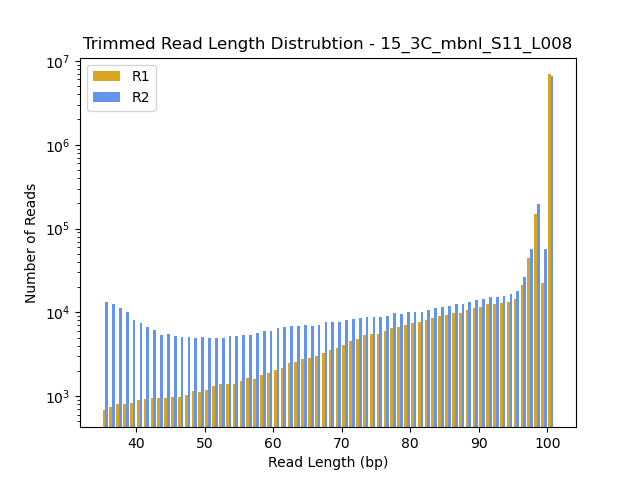
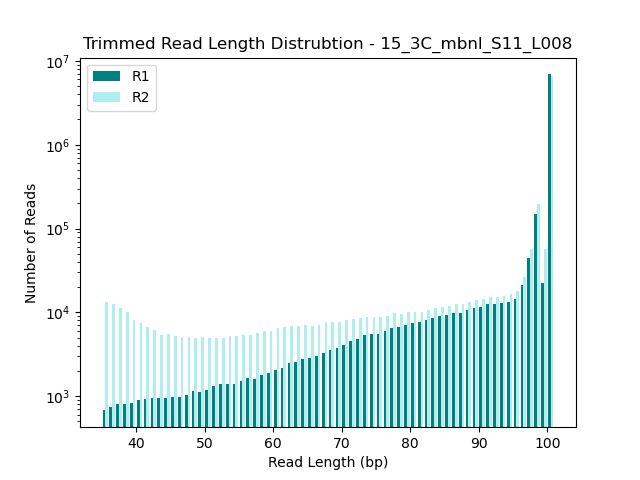
updated plots

Changed region(s): [[0.1562, 0.1562, 0.875, 0.9062], [0.125, 0.125, 0.1875, 0.2188]]

diff --git a/Part_2/read_length_dist.py b/Part_2/read_length_dist.py
@@ -33,7 +33,7 @@ R1 = rl_distribution(R1)
 R2 = rl_distribution(R2)
 
  
-plt.hist([R1, R2],label=["R1","R2"], bins = 66, color =['goldenrod','cornflowerblue'])
+plt.hist([R1, R2],label=["R1","R2"], bins = 66, color =['teal','paleturquoise'])
 plt.yscale('log')
 plt.title(f'Trimmed Read Length Distrubtion - {output}')
 plt.xlabel("Read Length (bp)")
